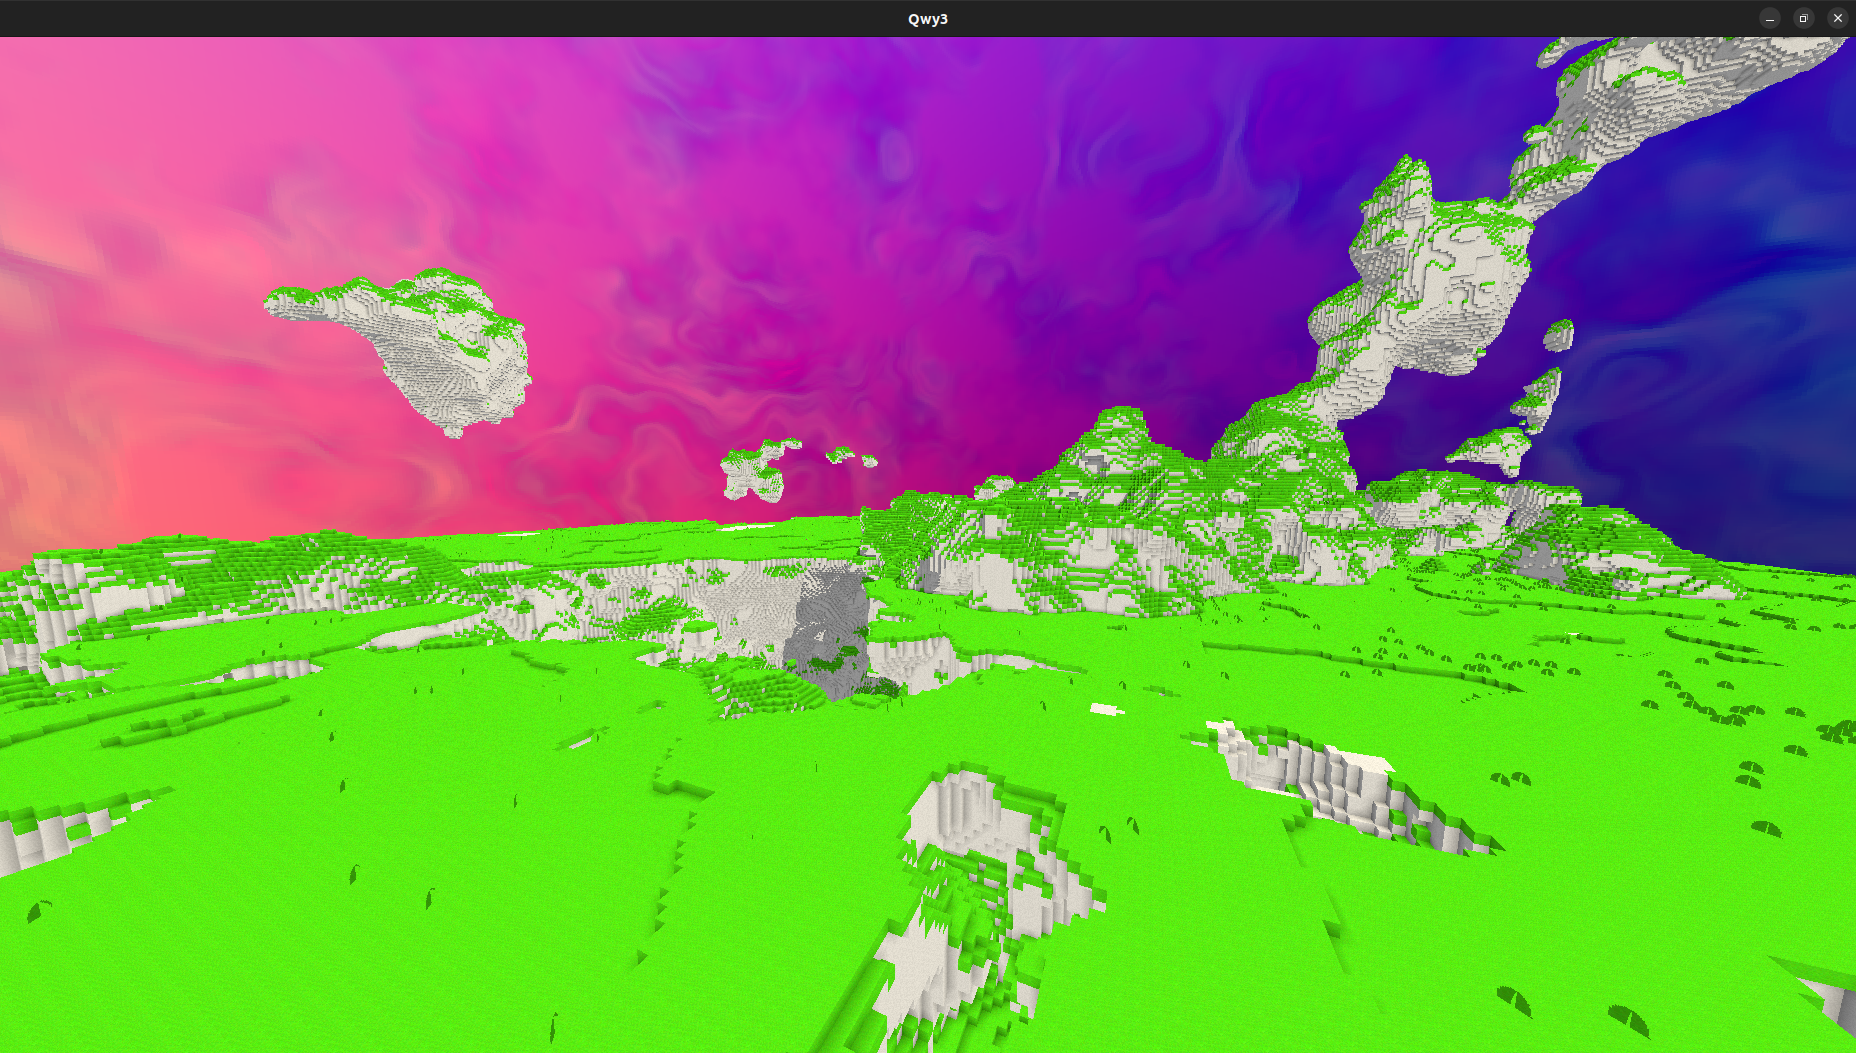
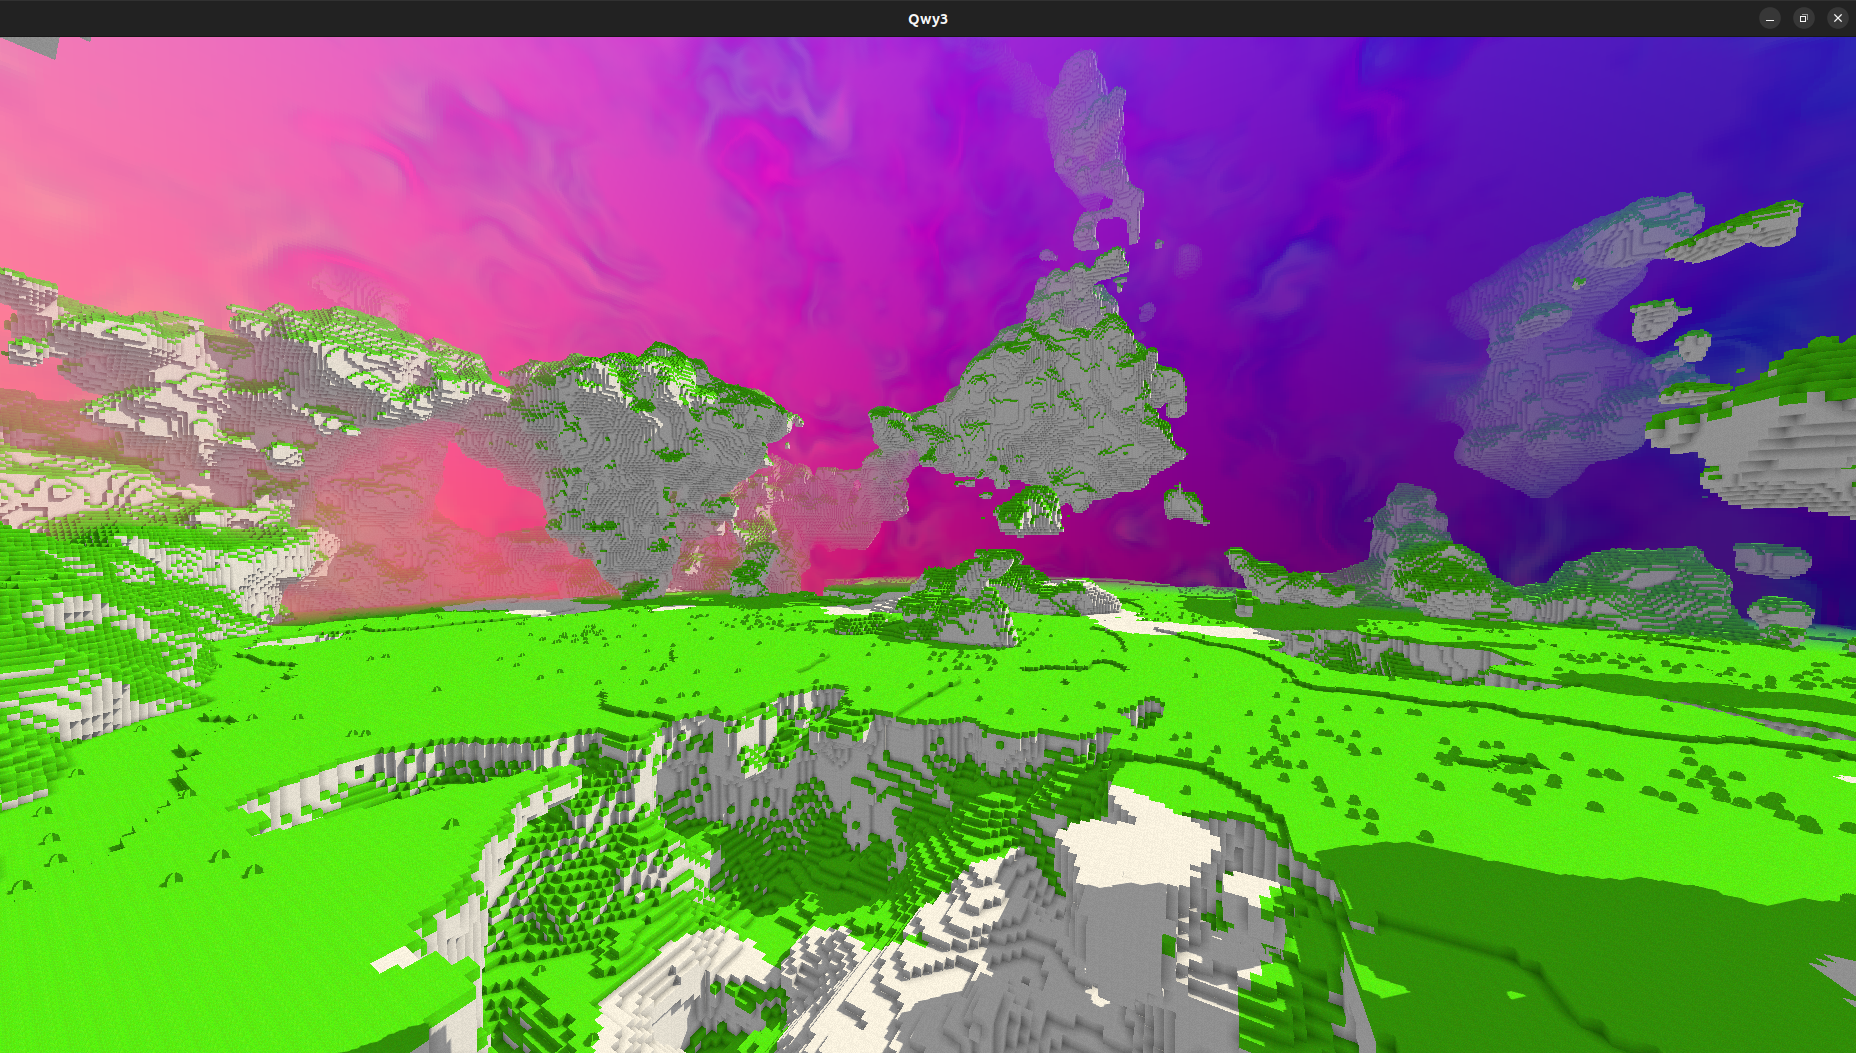
Remade some Qwy3 screenshots now that the fog is working again

diff --git a/content/posts/qwy3.md b/content/posts/qwy3.md
@@ -150,7 +150,7 @@ Seeding the structure origins with different structure types allows for, well, d
 
 ![Image of some terrain generation using the structure engine with multiple structure types.](/qwy3-12.png)
 
-The bounding box is only about modifying the world, not about querrying information, there is no reason to limit the range in which the generation of a structure can access information. Structures can still access the position of other structures, even other structures whose origins are outside of the bounding box of the structure we are generating. Two structures whose bounding box touch eachother can decide to generate a bringe between them for example, in the same way as described further above:
+The bounding box is only about modifying the world, not about querrying information, there is no reason to limit the range in which the generation of a structure can access information. Structures can still access the position of other structures, even other structures whose origins are outside of the bounding box of the structure we are generating. Two structures whose bounding box touch eachother can decide to generate a bridge between them for example, in the same way as described further above:
 
 ![Image of some terrain generation using the structure engine with multiple structure types.](/qwy3-13.png)
 
